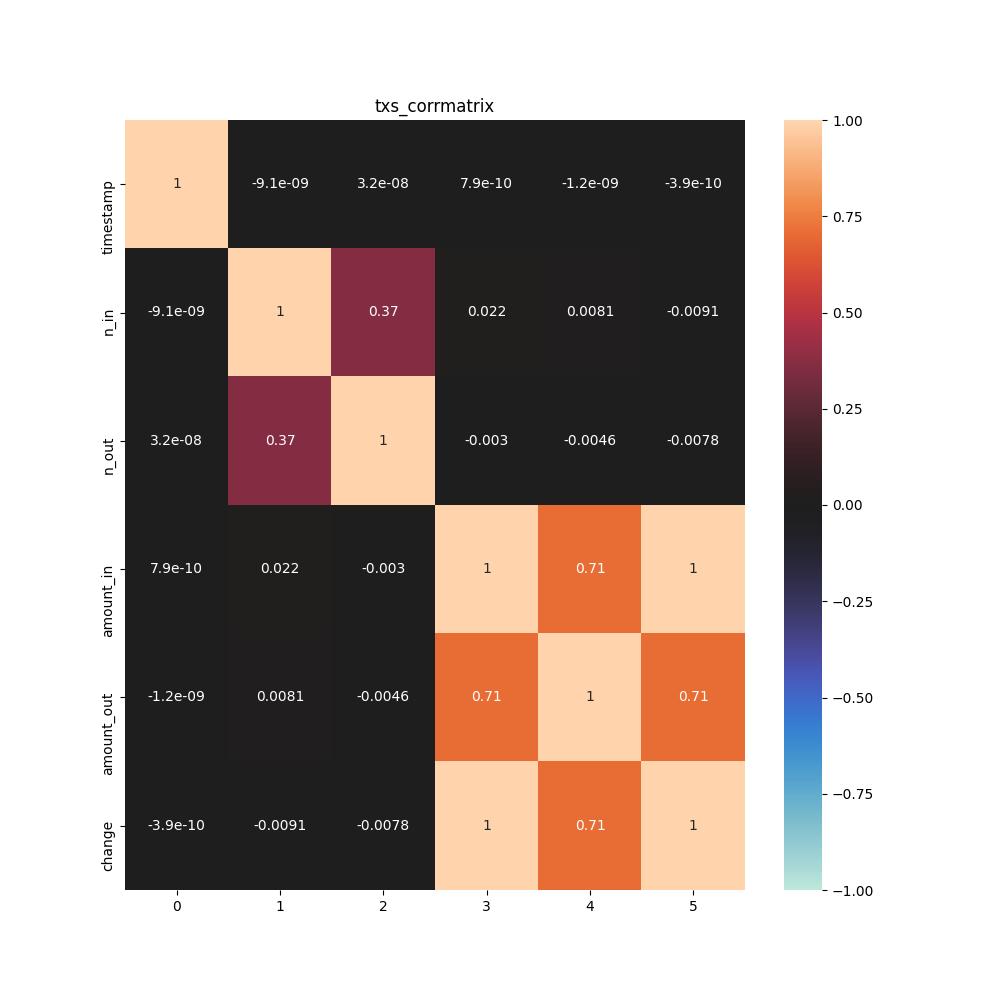
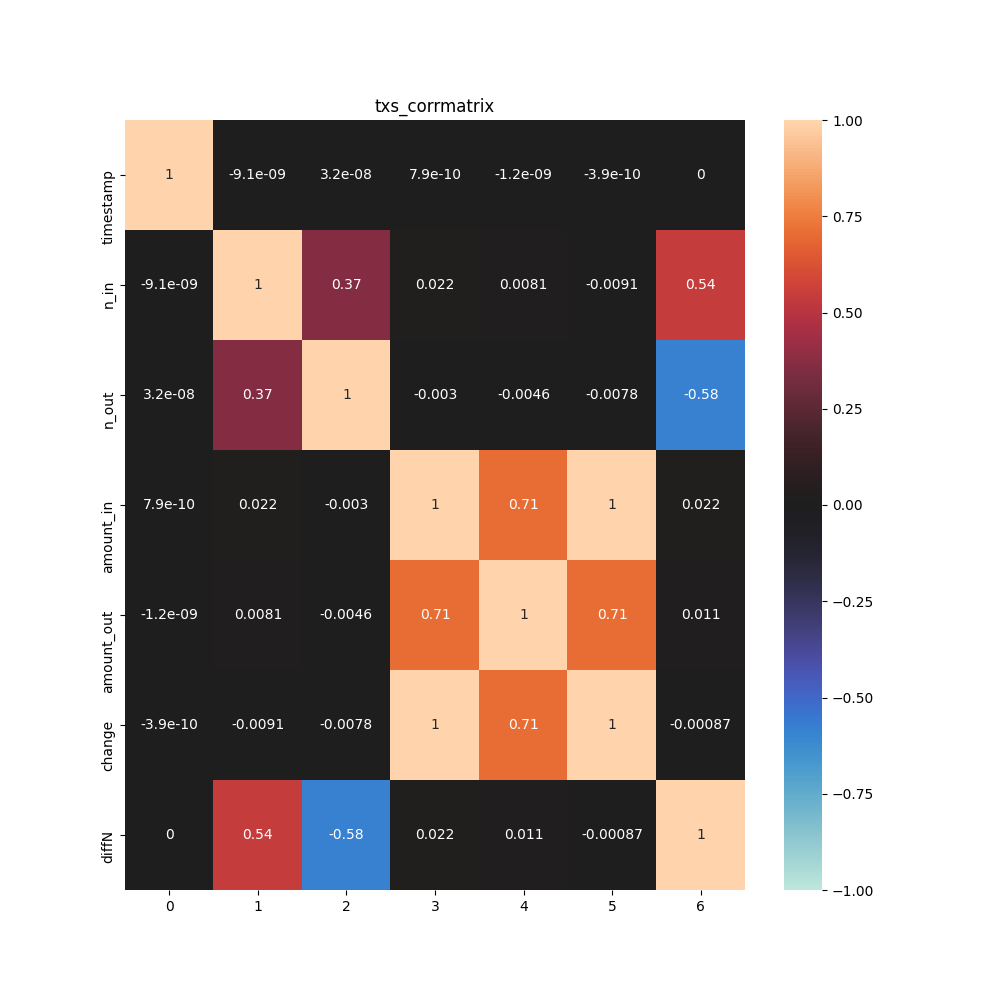
features added.

diff --git a/txs_analysis.py b/txs_analysis.py
@@ -27,13 +27,13 @@ spark = SparkSession.builder.getOrCreate() # bridge between driver script and Sp
 # ======================
 # Read dataset
 # ======================
-df = spark.read.csv("txsData/txs_smallAVG.csv", header=True, inferSchema=True).toDF('id', 'timestamp', 'n_in', 'n_out', 'amount_in', 'amount_out', 'change', 'date', 'usdAvg', 'usd_in', 'usd_out')
+df = spark.read.csv("txsData/txs_small.csv", header=True, inferSchema=True).toDF('id', 'timestamp', 'n_in', 'n_out', 'amount_in', 'amount_out', 'change', 'date', 'usdAvg', 'usd_in', 'usd_out', 'time', 'diffN')
 df.cache() # improves computational time 
 df.printSchema()
 # ========================
 # Correlation Heat Map
 # ========================
-features_corr = ['timestamp', 'n_in', 'n_out', 'amount_in', 'amount_out', 'change']
+features_corr = ['timestamp', 'n_in', 'n_out', 'amount_in', 'amount_out', 'change', 'diffN']
 assembler = VectorAssembler(inputCols=features_corr, outputCol='corr_features')
 vector_corr = assembler.transform(df).select('corr_features')
 matrix = Correlation.corr(vector_corr, 'corr_features').collect()[0][0]
@@ -50,18 +50,19 @@ def heatmap(X, columns, name):
         plt.savefig(fname)
         plt.close()
         pass
+
 heatmap(corrmatrix, features_corr, 'txs_corrmatrix')
 # ==========================
 # K-Means Model
 # ==========================
-features = ['timestamp', 'n_in', 'n_out', 'amount_in', 'amount_out', 'change']
+features = ['n_in', 'n_out', 'amount_in', 'amount_out', 'change', 'diffN']
 assembler = VectorAssembler(inputCols=features, outputCol='features')
 scalar = StandardScaler(inputCol='features', outputCol='scFeatures', withStd=True, withMean=True)
 #pipeline
 pipeline = Pipeline(stages=[assembler, scalar])
 pipelineFit = pipeline.fit(df)
 df_sc = pipelineFit.transform(df)
-# Trains a k-means model.
+# find the best k for a k-means model.
 def getSilhouette(df, model='KMeans'):
     silhouette_ls = []
     if model == 'KMeans':
@@ -73,15 +74,19 @@ def getSilhouette(df, model='KMeans'):
             # Evaluate clustering by computing Silhouette score
             evaluator = ClusteringEvaluator()
             silhouette_ls.append(round(evaluator.evaluate(predictions), 2))
-    return silhouette_ls
+        best_k = silhouette_ls.index(np.max(silhouette_ls))+2
+        print('****************************SILHOUETTE*************************************************')
+        print(f'The best K is: {best_k} associated with a silhoutte of: {np.max(silhouette_ls)}')
+    return silhouette_ls, best_k
 
-silhouette_km = np.array(getSilhouette(df_sc))
+sil_ls, k = getSilhouette(df_sc)
+silhouette_km = np.array(sil_ls)
 x = [2, 3, 4, 5, 6, 7, 8, 9, 10]
 plt.plot(x, silhouette_km, linewidth=1, marker='.', label='Kmeans')
-plt.title('silhouette metrics: KMeans')
 plt.xlabel('K')
+plt.title('silhouette metrics: KMeans')
 plt.grid()
-plt.savefig('plots/KmeansSil.png')
+plt.savefig('plots/KmeansSil_diffN.png')
 plt.close()
 
 sc.stop()

diff --git a/txs_csv.py b/txs_csv.py
@@ -33,16 +33,27 @@ df.cache() # improve computational time
 
 def toDate(x):
     return dt.fromtimestamp(x).strftime("%Y-%m-%d")
-toDate = F.udf(toDate)
-dfDate = df.withColumn('date', toDate(F.col('timestamp')))  # add a new column: date %Y/%m/%d from timestamp
 
 def usd_avg(x):
     return dict_bpi[x]
 
+def toTime(x):
+    return dt.fromtimestamp(x).strftime("%H:%M:%S")
+
+# register UDFs
+toDate = F.udf(toDate)
 usd_avg = F.udf(usd_avg)
+toTime = F.udf(toTime)
+
+dfDate = df.withColumn('date', toDate(F.col('timestamp')))  # add a new column: date %Y/%m/%d from timestamp
+
+
 dfavg = dfDate.withColumn('usdAvg', usd_avg(F.col('date')))  # add a new column: avg USD for the given date
 final = dfavg.withColumn('usd_in', F.col('usdAvg')*(F.col('amount_in')*C))\
              .withColumn('usd_out', F.col('usdAvg')*(F.col('amount_out')*C))
+
+final = final.withColumn('time', toTime(F.col('timestamp'))) \
+             .withColumn('diffN', (F.col('n_in')-F.col('n_out')))
 
 final.show(5)
 final.write.csv('txsData', header=True)
